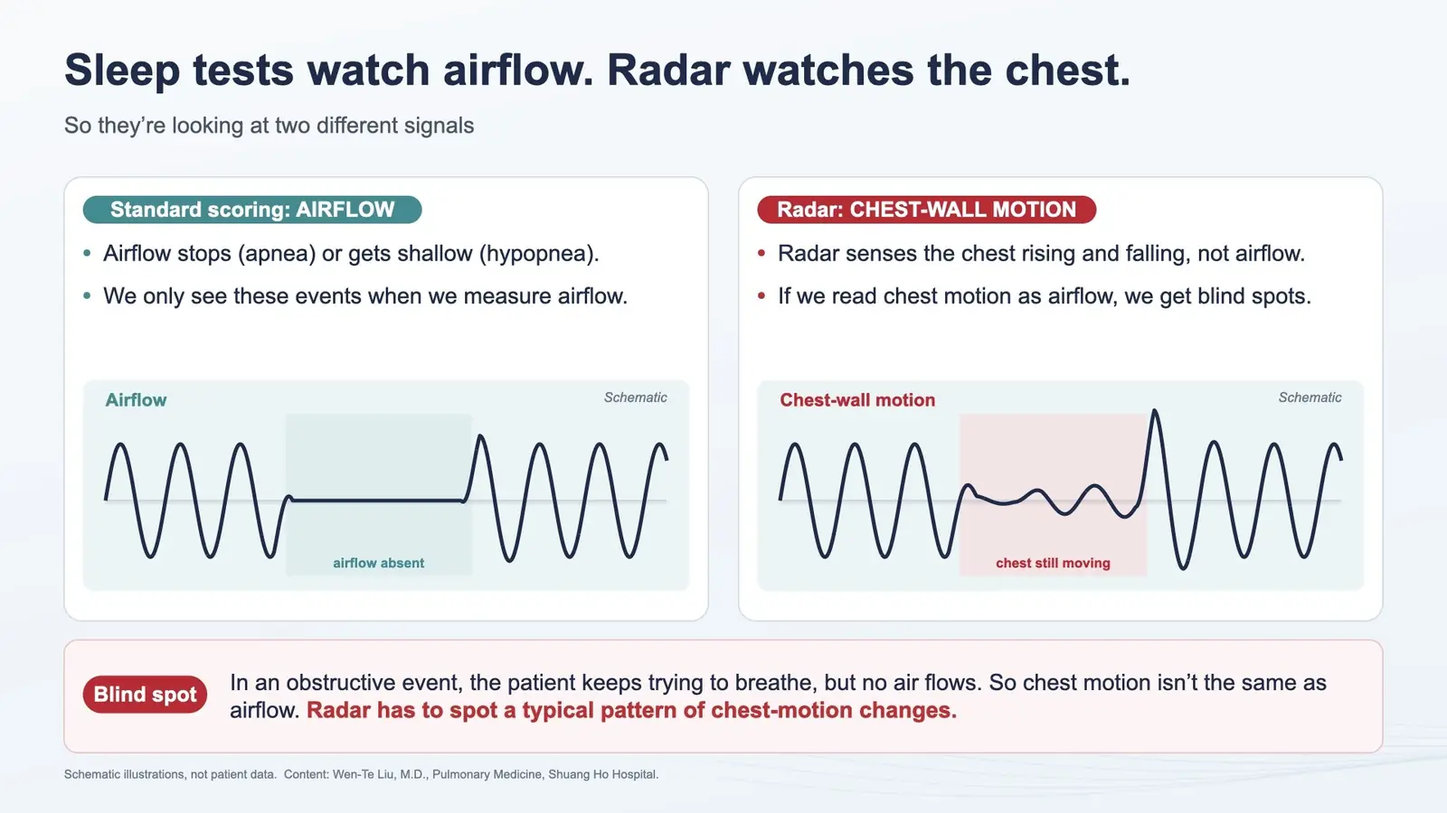
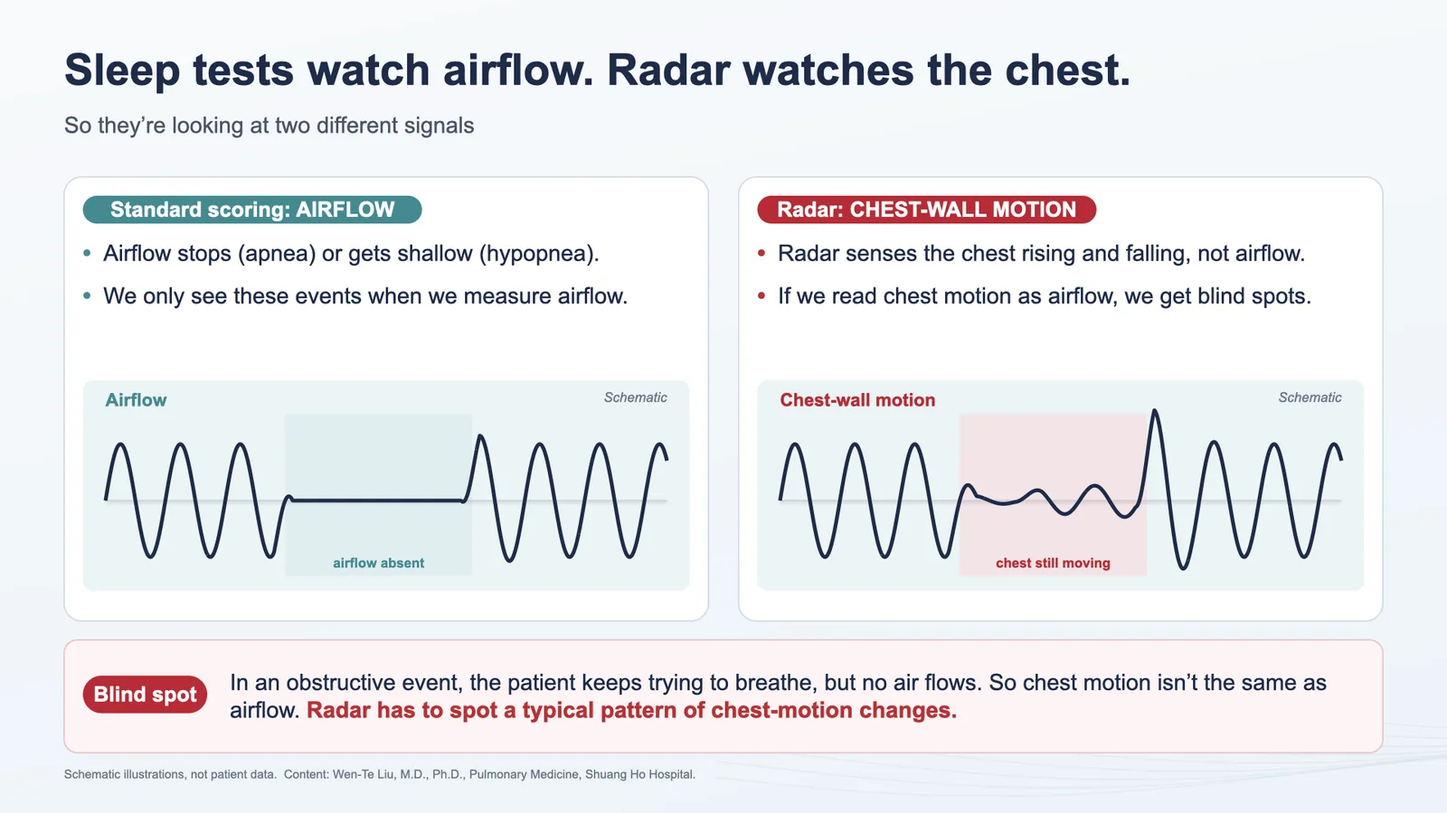
v13: byline M.D., Ph.D. on slide 1 (cover) and slide 10 footnote; SW gcbme-v15, s01/s10 ?v=16

Changed region(s): [[0.3125, 0.9333, 0.4688, 0.9644], [0.6875, 0.2489, 0.7188, 0.28], [0.5625, 0.2489, 0.5938, 0.28]]

diff --git a/data.js b/data.js
@@ -1,2 +1,2 @@
-window.SLIDES=[{"slide": 1, "title": "Non-wearable Devices in Sleep Medicine", "sentences": ["Good morning, everyone. Thank you for inviting me to the GCBME 2026 International Forum on Smart Healthcare.", "I'm Wen-Te Liu, from Pulmonary Medicine at Shuang Ho Hospital.", "Today I'll talk about non-wearable devices in sleep medicine: how we use contactless radar to check breathing during sleep."], "keywords": ["2026", "GCBME", "International", "Forum", "Smart", "Healthcare", "Pulmonary", "Medicine", "Shuang", "Hospital", "wearable", "contactless"], "seconds": 21.2, "words": 46, "image": "slides/s01.webp?v=15"}, {"slide": 2, "title": "Why is sleep testing so hard?", "sentences": ["Let me start with a simple question: why is sleep testing so hard?", "Look at the waiting room. If we suspect sleep-disordered breathing, we need objective data.", "But getting that data is a real hassle.", "Putting on the sensors often takes more than 60 minutes, and it makes patients anxious.", "And then patients have to sleep in a very unnatural setting."], "keywords": ["60", "disordered", "breathing", "objective", "patients", "unnatural"], "seconds": 28.2, "words": 61, "image": "slides/s02.webp?v=15"}, {"slide": 3, "title": "How do today's tests compare?", "sentences": ["Let's look at the options we have now. How do today's tests compare?", "PSG covers all sleep diseases, but it needs 20 or more wires, and patients wait 1 to 2 months.", "Home sleep testing uses 3 wires. An oximeter or an ECG patch can record for 7 to 14 days.", "But they are all uncomfortable, and the patch can cause allergy.", "So we need to move past wearable sensors, from Type I to Type IV, to monitoring with nothing to wear, night after night."], "keywords": ["20", "PSG", "ECG", "diseases", "oximeter", "uncomfortable", "wearable", "monitoring"], "seconds": 39.2, "words": 85, "image": "slides/s03.webp?v=15"}, {"slide": 4, "title": "Wearable sensors for sleep monitoring", "sentences": ["And it's not only clinical tests. There are also many wearable sensors for sleep monitoring.", "They track brain activity, heart activity, movement, respiration, and blood oxygen.", "But every one of them has to be worn on the body.", "So the question is: could non-wearables work?"], "keywords": ["wearable", "monitoring", "activity", "movement", "respiration", "wearables"], "seconds": 20.8, "words": 45, "image": "slides/s04.webp?v=15"}, {"slide": 5, "title": "Radar principle diagram", "sentences": ["Our answer is radar. Here is how it works.", "The radar sends a signal from Tx, and picks up the reflection at Rx.", "When the chest moves a little, the received signal changes, in its time of flight, or ToF, and its phase.", "From the changes, we rebuild the breathing signal, with no wires."], "keywords": ["reflection", "received", "breathing"], "seconds": 24.9, "words": 54, "image": "slides/s05.webp?v=15"}, {"slide": 6, "title": "Here's how it looks at the bedside", "sentences": ["And here's how it looks at the bedside.", "The radar can go on the wall above the bed, on an arm, or on a floor stand.", "Nothing touches the patient."], "keywords": [], "seconds": 13.8, "words": 30, "image": "slides/s06.webp?v=15"}, {"slide": 7, "title": "Our three published studies: sleep lab, home, and heart", "sentences": ["With this setup, our team has done three published studies: sleep lab, home, and heart.", "How it works: a 24-GHz continuous-wave radar, plus deep neural decision trees.", "In Study 1, in the sleep lab, we compared the radar side by side with PSG in 196 patients, and got a strong correlation, r = 0.91.", "In Study 2, we tested 80 patients at home, for 147 nights, with no professional needed to set it up.", "In Study 3, with 72 patients, when the radar picked up periodic breathing, it was linked to lower LVEF."], "keywords": ["24", "196", "0.91", "80", "147", "72", "GHz", "PSG", "LVEF", "Study", "published", "continuous-wave"], "seconds": 42.9, "words": 93, "image": "slides/s07.webp?v=15"}, {"slide": 8, "title": "Study 1: Testing it in the hospital", "sentences": ["Let's start with Study 1: testing it in the hospital.", "Our team published this study in 2024.", "We compared the radar with PSG in 196 patients.", "The setting was a tightly controlled lab, with no outside noise. So we get a clean baseline."], "keywords": ["2024", "196", "PSG", "Study", "hospital", "published", "compared", "patients", "controlled", "baseline"], "seconds": 19.8, "words": 43, "image": "slides/s08.webp?v=15"}, {"slide": 9, "title": "Radar turns tiny chest movements into breathing signals", "sentences": ["Before the results, how does the radar see the breathing? It turns tiny chest movements into breathing signals.", "In panel A, normal breathing gives a steady, regular wave.", "Panel B shows a respiratory event. During the apnea episode, the wave gets very small, and then breathing comes back."], "keywords": ["breathing", "movements", "respiratory"], "seconds": 22.2, "words": 48, "image": "slides/s09.webp?v=15"}, {"slide": 10, "title": "Sleep tests watch airflow. Radar watches the chest.", "sentences": ["But there's a catch. Sleep tests watch airflow, while radar watches the chest.", "In standard scoring, airflow stops, or gets shallow. We only see these events when we measure airflow.", "Radar senses the chest rising and falling, not airflow. So if we read chest motion as airflow, we get blind spots.", "In an obstructive event, the patient keeps trying to breathe, but no air flows.", "That's why the radar has to spot a typical pattern of chest-motion changes."], "keywords": ["Sleep", "Radar", "standard", "obstructive"], "seconds": 36.0, "words": 78, "image": "slides/s10.webp?v=15"}, {"slide": 11, "title": "How radar sees a sleep-breathing event", "sentences": ["Here's how radar sees a sleep-breathing event: in five steps of chest-wall motion.", "First, normal breathing: the chest moves regularly.", "Then apnea onset: the movement drops sharply, or stops.", "Then struggling effort: the airway is still closed, so the chest makes small moves.", "Then a recovery surge: the airway opens, with one big breath.", "And then it goes back to normal.", "This whole sequence is the event that radar can detect."], "keywords": ["breathing", "regularly", "movement", "struggling", "recovery", "sequence"], "seconds": 32.8, "words": 71, "image": "slides/s11.webp?v=15"}, {"slide": 12, "title": "Does the radar agree with the clinical gold standard?", "sentences": ["Now, the key question for Study 1: does the radar agree with the clinical gold standard?", "On the left is the full sleep study in the hospital, PSG. On the right, the contactless 24-GHz radar.", "We tested 196 patients, and the correlation was r = 0.91."], "keywords": ["24", "196", "0.91", "PSG", "GHz", "Study", "clinical", "standard", "hospital", "contactless", "patients", "correlation"], "seconds": 21.2, "words": 46, "image": "slides/s12.webp?v=15"}, {"slide": 13, "title": "Study 1: How accurate is it in the hospital?", "sentences": ["Beyond the correlation, Study 1 also asked: how accurate is it in the hospital?", "Here, bRDI is the BestShape Respiratory Disturbance Index, from the radar.", "The radar's bRDI and the AHI from PSG line up well, with r = 0.91, and p < 0.01.", "For moderate-to-severe OSA, the accuracy was 90.3%, with a cut-off of 19.2 events/h.", "For severe OSA, the accuracy was 92.4%, with a cut-off of 28.86 events/h.", "And for multi-class prediction, the average accuracy was 83.7%."], "keywords": ["0.91", "0.01", "90.3%", "19.2", "92.4%", "28.86", "83.7%", "bRDI", "AHI", "OSA", "Study", "Respiratory"], "seconds": 36.5, "words": 79, "image": "slides/s13.webp?v=15"}, {"slide": 14, "title": "From research to the ward: a zero-contact care platform", "sentences": ["Next, from research to the ward: our zero-contact care platform. We now use the radar every day for our inpatients.", "It monitors breathing nonstop, with no contact, and it reads heart rate and bed status from the same radar signal.", "If a patient is out of bed too long, or vital signs are abnormal, staff get alerts on the dashboard and LINE.", "It received the 2021 SNQ, and the 2022 NHQA, Distinctive Center for our Sleep Center."], "keywords": ["2021", "2022", "LINE", "SNQ", "NHQA", "Distinctive", "Center", "Sleep", "research", "platform", "inpatients", "breathing"], "seconds": 35.5, "words": 77, "image": "slides/s14.webp?v=15"}, {"slide": 15, "title": "Obstructive Sleep Apnea after COVID-19", "sentences": ["During the pandemic, we also looked at obstructive sleep apnea after COVID-19. This is an observational study.", "The table shows sleep test results in post-COVID-19 patients.", "Out of 257 patients, only 2 were normal, with an AHI below 5.", "Mild OSA was 11.28%, moderate was 29.18%, and severe was 58.75%."], "keywords": ["257", "11.28%", "29.18%", "58.75%", "COVID", "obstructive", "observational", "patients", "moderate"], "seconds": 23.1, "words": 50, "image": "slides/s15.webp?v=15"}, {"slide": 16, "title": "Radar picks up OSA in COVID-19 patients", "sentences": ["On our own wards, the radar also flags possible OSA in COVID-19 patients.", "From 2021/7 to 2022/7, our platform recorded 5,376 monitoring sessions.", "The lines show the percentage with RDI ≥15, ≥30, and ≥40.", "It runs from Delta in the summer of 2021, to Omicron in the summer of 2022.", "These are observational data. They show trends, not a diagnosis for each patient."], "keywords": ["2021", "2022", "5,376", "15", "30", "40", "OSA", "COVID", "RDI", "Delta", "Omicron", "possible"], "seconds": 29.1, "words": 63, "image": "slides/s16.webp?v=15"}, {"slide": 17, "title": "Does it work in real homes?", "sentences": ["Now, let's leave the hospital. Does it work in real homes?", "We studied 80 patients over 147 nights.", "We checked it against PSG in the hospital, and against HSAT at home. No technician was there at home.", "So we see it as a promising complement to HSAT."], "keywords": ["80", "147", "PSG", "HSAT", "hospital", "patients", "technician", "promising", "complement"], "seconds": 21.7, "words": 47, "image": "slides/s17.webp?v=15"}, {"slide": 18, "title": "Study 2: Taking it home", "sentences": ["This brings us to Study 2: taking it home.", "At home, nothing is controlled: different sleep positions, thick blankets, noise, and no technician.", "Again, 80 patients and 147 nights, with no staff on site.", "We compared the radar with home sleep apnea testing, or HSAT.", "Real homes are messy, so we need robust signal processing."], "keywords": ["80", "147", "HSAT", "Study", "controlled", "different", "positions", "blankets", "technician", "patients", "compared", "processing"], "seconds": 25.4, "words": 55, "image": "slides/s18.webp?v=15"}, {"slide": 19, "title": "Study 2: How well does it work at home?", "sentences": ["So how well does it work at home?", "We got a strong Spearman correlation, ρ = 0.87, with p < 0.01. So bRDI_TIB tracks HSAT AHI closely, even with no one supervising.", "For consistency, on average, the difference is −5.30 events/h.", "And 93.88% of nights, that's 138 of 147, fall within the ±1.96 SD limits of agreement."], "keywords": ["0.87", "0.01", "5.30", "93.88%", "138", "147", "1.96", "bRDI", "HSAT", "AHI", "SD", "correlation"], "seconds": 26.3, "words": 57, "image": "slides/s19.webp?v=15"}, {"slide": 20, "title": "Study 2: Grading severity at home", "sentences": ["Study 2 also looked at grading severity at home.", "For moderate-to-severe OSA, the accuracy was 83.67%, with a bRDI_TIB cut-off of 21.19 events/h.", "For severe OSA, it was 93.21%, with a cut-off of 28.14 events/h.", "For multi-class prediction, the average accuracy was 78.23%. That's better than HSAT rules alone, at 72.11%."], "keywords": ["83.67%", "21.19", "93.21%", "28.14", "78.23%", "72.11%", "OSA", "bRDI", "HSAT", "Study", "severity", "moderate-to-severe"], "seconds": 23.5, "words": 51, "image": "slides/s20.webp?v=15"}, {"slide": 21, "title": "Hospital vs. home: how do they compare?", "sentences": ["Let's put the two studies side by side. Hospital vs. home: how do they compare?", "In Study 1, in the hospital, the correlation with PSG was r = 0.91, and severe OSA accuracy was 92.4%.", "In Study 2, in real homes with nothing controlled, the Spearman correlation with HSAT was ρ = 0.87, and severe OSA accuracy was 93.21%.", "So the key insight is: for severe OSA, accuracy stays above 92%, in the hospital and at home."], "keywords": ["0.91", "92.4%", "0.87", "93.21%", "92%", "PSG", "OSA", "HSAT", "Hospital", "Study", "correlation", "accuracy"], "seconds": 35.5, "words": 77, "image": "slides/s21.webp?v=15"}, {"slide": 22, "title": "TFDA clearance: where we stand", "sentences": ["Next, TFDA clearance: where we stand. The device is TFDA cleared.", "bRDI ≥ 30 is used only as a screen for suspected severe obstructive sleep apnea.", "At a cut-off of 30, the sensitivity is 90.5%, and the specificity is also 90.5%.", "Please note: this device screens for suspected severe OSA. It does not diagnose OSA on its own."], "keywords": ["30", "90.5%", "TFDA", "bRDI", "OSA", "Please", "clearance", "suspected", "obstructive", "sensitivity", "specificity", "diagnose"], "seconds": 26.8, "words": 58, "image": "slides/s22.webp?v=15"}, {"slide": 23, "title": "So what does TFDA clearance mean in practice?", "sentences": ["So what does TFDA clearance mean in practice? Here is what the license covers.", "The main cut-off is bRDI ≥ 30. This flags suspected severe OSA.", "Sensitivity and specificity are both 90.5%.", "It tracks heart rate from 40–120 bpm.", "And for sleep stages, the consistency is 69%.", "But keep in mind: bRDI ≥ 30 is validated as a screen for suspected severe OSA. It doesn't replace a full diagnosis."], "keywords": ["30", "90.5%", "40", "120", "69%", "TFDA", "bRDI", "OSA", "Sensitivity", "clearance", "practice", "suspected"], "seconds": 31.8, "words": 69, "image": "slides/s23.webp?v=15"}, {"slide": 24, "title": "How do we install it?", "sentences": ["Next, a practical question: how do we install it?", "Option A is a wall-mounted bracket. It's best for fixed hospital or clinic beds.", "Option B is a floor stand. It's best for homes, and it's easy to move.", "Either way, the radar is set at 75–90 cm."], "keywords": ["75", "90", "Option", "hospital"], "seconds": 21.7, "words": 47, "image": "slides/s24.webp?v=15"}, {"slide": 25, "title": "How it all works, around the clock", "sentences": ["Once it's installed, how does it all work, around the clock?", "The radar sends data nonstop over Wi-Fi.", "The clinical dashboard shows each patient's status, movement, and abnormal vital signs in one place.", "And with automatic LINE app alerts, staff get an alert right away for abnormal values or bed exits."], "keywords": ["LINE", "clinical", "dashboard", "movement", "abnormal", "automatic"], "seconds": 23.5, "words": 51, "image": "slides/s25.webp?v=15"}, {"slide": 26, "title": "Study 3: Can breathing tell us about the heart?", "sentences": ["Now let's turn to the heart. Study 3 asks: can breathing tell us about the heart?", "This study had 72 patients, and it was published by our team in 2025.", "Here's what we found. When the radar picks up abnormal breathing, especially periodic breathing, or Cheyne-Stokes, it's linked to a lower LVEF.", "Just to be clear: this is an early-warning idea for heart failure, based on associations.", "It isn't validated yet for diagnosis or prediction."], "keywords": ["72", "2025", "LVEF", "Study", "Cheyne", "Stokes", "breathing", "published", "abnormal", "especially", "periodic", "associations"], "seconds": 34.6, "words": 75, "image": "slides/s26.webp?v=15"}, {"slide": 27, "title": "Why does a weaker heart change breathing during sleep?", "sentences": ["But why would a weaker heart change breathing during sleep?", "It comes from a feedback loop: the neural outflow, the plant gain, the circulation time, and the chemoreflex gain to CO2.", "Periodic breathing is associated with impaired cardiac function.", "Our radar does not measure CO2. It only sees the breathing pattern."], "keywords": ["CO2", "Periodic", "breathing", "circulation", "chemoreflex", "associated", "impaired", "function"], "seconds": 23.5, "words": 51, "image": "slides/s27.webp?v=15"}, {"slide": 28, "title": "Periodic-breathing features & cycle length", "sentences": ["And how do we measure periodic breathing? We use features like the cycle length and the hyperpnea length.", "When cycle length was measured by CPAP, it was 11x in acute heart failure, 8x in chronic heart failure, and 1x in a normal heart.", "And by LVEF, the cycle length goes from 49.1 seconds when LVEF is above 50, up to 85.7 seconds when LVEF is below 20."], "keywords": ["11", "49.1", "50", "85.7", "20", "CPAP", "LVEF", "features", "hyperpnea", "measured"], "seconds": 30.9, "words": 67, "image": "slides/s28.webp?v=15"}, {"slide": 29, "title": "IEEE JTEHM 2025 paper", "sentences": ["These ideas come together in our paper on evaluating cardiac impairment from abnormal respiratory patterns, using wireless radar and deep learning.", "In Table 1, we split patients by LVEF: above 50%, 47 patients, and 50% or below, 25 patients.", "The table also compares LVEF, LVEDD, and LVESD between the two groups."], "keywords": ["50%", "47", "25", "LVEF", "LVEDD", "LVESD", "Table", "evaluating", "impairment", "abnormal", "respiratory", "patterns"], "seconds": 23.5, "words": 51, "image": "slides/s29.webp?v=15"}, {"slide": 30, "title": "Putting numbers on the heart–breathing links", "sentences": ["From that paper, let's put numbers on the heart–breathing links.", "Keep in mind: these are clinical associations only.", "If RDI goes up by 1/h, LVEF goes down 0.22%, and LVESD goes up 0.14 mm.", "If the PB cycle is 1 s longer, NT-proBNP goes up 158.49 pg/mL, LVEF goes down 0.21%, LVEDD goes up 0.11 mm, and LVESD goes up 0.16 mm."], "keywords": ["0.22%", "0.14", "158.49", "0.21%", "0.11", "0.16", "RDI", "LVEF", "LVESD", "PB", "NT", "LVEDD"], "seconds": 28.6, "words": 62, "image": "slides/s30.webp?v=15"}, {"slide": 31, "title": "What does daily screening data look like?", "sentences": ["Now, back to daily practice. What does our daily screening data look like?", "The team gets a LINE message from the test site.", "For each bed, it lists the bRDI, sleep time, PB%, PB events, and the average PB cycle length that we just discussed.", "On the right is the full sleep report, in Chinese."], "keywords": ["LINE", "bRDI", "PB", "screening"], "seconds": 25.4, "words": 55, "image": "slides/s31.webp?v=15"}, {"slide": 32, "title": "Our ward work has won national awards", "sentences": ["This daily ward work has also won national awards for our zero-contact care platform.", "In 2025, we received the NHQA, the National Healthcare Quality Award, for our zero-contact monitoring platform for inpatients.", "We also received the SNQ, the Symbol of National Quality, for our Wholehearted integrated care model."], "keywords": ["2025", "NHQA", "SNQ", "National", "Healthcare", "Quality", "Award", "Symbol", "Wholehearted", "platform", "monitoring", "integrated"], "seconds": 22.2, "words": 48, "image": "slides/s32.webp?v=15"}, {"slide": 33, "title": "What to take home", "sentences": ["To wrap up, what should you take home?", "First, it's contactless. A 24-GHz radar can monitor breathing night after night, with nothing to wear.", "Second, it's consistent with standard tests: r = 0.91 in the hospital, and ρ = 0.87 at home.", "Third, it's a TFDA-cleared screen for suspected severe OSA, with 90.5% sensitivity.", "Fourth, we found associations between periodic breathing and cardiac impairment. So it may help us watch the heart, too.", "And finally, our work received national quality awards: SNQ and NHQA.", "Thank you very much. I'm happy to take your questions."], "keywords": ["24", "0.91", "0.87", "90.5%", "GHz", "TFDA", "OSA", "SNQ", "NHQA", "contactless", "breathing", "consistent"], "seconds": 43.4, "words": 94, "image": "slides/s33.webp?v=15"}];
+window.SLIDES=[{"slide": 1, "title": "Non-wearable Devices in Sleep Medicine", "sentences": ["Good morning, everyone. Thank you for inviting me to the GCBME 2026 International Forum on Smart Healthcare.", "I'm Wen-Te Liu, from Pulmonary Medicine at Shuang Ho Hospital.", "Today I'll talk about non-wearable devices in sleep medicine: how we use contactless radar to check breathing during sleep."], "keywords": ["2026", "GCBME", "International", "Forum", "Smart", "Healthcare", "Pulmonary", "Medicine", "Shuang", "Hospital", "wearable", "contactless"], "seconds": 21.2, "words": 46, "image": "slides/s01.webp?v=16"}, {"slide": 2, "title": "Why is sleep testing so hard?", "sentences": ["Let me start with a simple question: why is sleep testing so hard?", "Look at the waiting room. If we suspect sleep-disordered breathing, we need objective data.", "But getting that data is a real hassle.", "Putting on the sensors often takes more than 60 minutes, and it makes patients anxious.", "And then patients have to sleep in a very unnatural setting."], "keywords": ["60", "disordered", "breathing", "objective", "patients", "unnatural"], "seconds": 28.2, "words": 61, "image": "slides/s02.webp?v=15"}, {"slide": 3, "title": "How do today's tests compare?", "sentences": ["Let's look at the options we have now. How do today's tests compare?", "PSG covers all sleep diseases, but it needs 20 or more wires, and patients wait 1 to 2 months.", "Home sleep testing uses 3 wires. An oximeter or an ECG patch can record for 7 to 14 days.", "But they are all uncomfortable, and the patch can cause allergy.", "So we need to move past wearable sensors, from Type I to Type IV, to monitoring with nothing to wear, night after night."], "keywords": ["20", "PSG", "ECG", "diseases", "oximeter", "uncomfortable", "wearable", "monitoring"], "seconds": 39.2, "words": 85, "image": "slides/s03.webp?v=15"}, {"slide": 4, "title": "Wearable sensors for sleep monitoring", "sentences": ["And it's not only clinical tests. There are also many wearable sensors for sleep monitoring.", "They track brain activity, heart activity, movement, respiration, and blood oxygen.", "But every one of them has to be worn on the body.", "So the question is: could non-wearables work?"], "keywords": ["wearable", "monitoring", "activity", "movement", "respiration", "wearables"], "seconds": 20.8, "words": 45, "image": "slides/s04.webp?v=15"}, {"slide": 5, "title": "Radar principle diagram", "sentences": ["Our answer is radar. Here is how it works.", "The radar sends a signal from Tx, and picks up the reflection at Rx.", "When the chest moves a little, the received signal changes, in its time of flight, or ToF, and its phase.", "From the changes, we rebuild the breathing signal, with no wires."], "keywords": ["reflection", "received", "breathing"], "seconds": 24.9, "words": 54, "image": "slides/s05.webp?v=15"}, {"slide": 6, "title": "Here's how it looks at the bedside", "sentences": ["And here's how it looks at the bedside.", "The radar can go on the wall above the bed, on an arm, or on a floor stand.", "Nothing touches the patient."], "keywords": [], "seconds": 13.8, "words": 30, "image": "slides/s06.webp?v=15"}, {"slide": 7, "title": "Our three published studies: sleep lab, home, and heart", "sentences": ["With this setup, our team has done three published studies: sleep lab, home, and heart.", "How it works: a 24-GHz continuous-wave radar, plus deep neural decision trees.", "In Study 1, in the sleep lab, we compared the radar side by side with PSG in 196 patients, and got a strong correlation, r = 0.91.", "In Study 2, we tested 80 patients at home, for 147 nights, with no professional needed to set it up.", "In Study 3, with 72 patients, when the radar picked up periodic breathing, it was linked to lower LVEF."], "keywords": ["24", "196", "0.91", "80", "147", "72", "GHz", "PSG", "LVEF", "Study", "published", "continuous-wave"], "seconds": 42.9, "words": 93, "image": "slides/s07.webp?v=15"}, {"slide": 8, "title": "Study 1: Testing it in the hospital", "sentences": ["Let's start with Study 1: testing it in the hospital.", "Our team published this study in 2024.", "We compared the radar with PSG in 196 patients.", "The setting was a tightly controlled lab, with no outside noise. So we get a clean baseline."], "keywords": ["2024", "196", "PSG", "Study", "hospital", "published", "compared", "patients", "controlled", "baseline"], "seconds": 19.8, "words": 43, "image": "slides/s08.webp?v=15"}, {"slide": 9, "title": "Radar turns tiny chest movements into breathing signals", "sentences": ["Before the results, how does the radar see the breathing? It turns tiny chest movements into breathing signals.", "In panel A, normal breathing gives a steady, regular wave.", "Panel B shows a respiratory event. During the apnea episode, the wave gets very small, and then breathing comes back."], "keywords": ["breathing", "movements", "respiratory"], "seconds": 22.2, "words": 48, "image": "slides/s09.webp?v=15"}, {"slide": 10, "title": "Sleep tests watch airflow. Radar watches the chest.", "sentences": ["But there's a catch. Sleep tests watch airflow, while radar watches the chest.", "In standard scoring, airflow stops, or gets shallow. We only see these events when we measure airflow.", "Radar senses the chest rising and falling, not airflow. So if we read chest motion as airflow, we get blind spots.", "In an obstructive event, the patient keeps trying to breathe, but no air flows.", "That's why the radar has to spot a typical pattern of chest-motion changes."], "keywords": ["Sleep", "Radar", "standard", "obstructive"], "seconds": 36.0, "words": 78, "image": "slides/s10.webp?v=16"}, {"slide": 11, "title": "How radar sees a sleep-breathing event", "sentences": ["Here's how radar sees a sleep-breathing event: in five steps of chest-wall motion.", "First, normal breathing: the chest moves regularly.", "Then apnea onset: the movement drops sharply, or stops.", "Then struggling effort: the airway is still closed, so the chest makes small moves.", "Then a recovery surge: the airway opens, with one big breath.", "And then it goes back to normal.", "This whole sequence is the event that radar can detect."], "keywords": ["breathing", "regularly", "movement", "struggling", "recovery", "sequence"], "seconds": 32.8, "words": 71, "image": "slides/s11.webp?v=15"}, {"slide": 12, "title": "Does the radar agree with the clinical gold standard?", "sentences": ["Now, the key question for Study 1: does the radar agree with the clinical gold standard?", "On the left is the full sleep study in the hospital, PSG. On the right, the contactless 24-GHz radar.", "We tested 196 patients, and the correlation was r = 0.91."], "keywords": ["24", "196", "0.91", "PSG", "GHz", "Study", "clinical", "standard", "hospital", "contactless", "patients", "correlation"], "seconds": 21.2, "words": 46, "image": "slides/s12.webp?v=15"}, {"slide": 13, "title": "Study 1: How accurate is it in the hospital?", "sentences": ["Beyond the correlation, Study 1 also asked: how accurate is it in the hospital?", "Here, bRDI is the BestShape Respiratory Disturbance Index, from the radar.", "The radar's bRDI and the AHI from PSG line up well, with r = 0.91, and p < 0.01.", "For moderate-to-severe OSA, the accuracy was 90.3%, with a cut-off of 19.2 events/h.", "For severe OSA, the accuracy was 92.4%, with a cut-off of 28.86 events/h.", "And for multi-class prediction, the average accuracy was 83.7%."], "keywords": ["0.91", "0.01", "90.3%", "19.2", "92.4%", "28.86", "83.7%", "bRDI", "AHI", "OSA", "Study", "Respiratory"], "seconds": 36.5, "words": 79, "image": "slides/s13.webp?v=15"}, {"slide": 14, "title": "From research to the ward: a zero-contact care platform", "sentences": ["Next, from research to the ward: our zero-contact care platform. We now use the radar every day for our inpatients.", "It monitors breathing nonstop, with no contact, and it reads heart rate and bed status from the same radar signal.", "If a patient is out of bed too long, or vital signs are abnormal, staff get alerts on the dashboard and LINE.", "It received the 2021 SNQ, and the 2022 NHQA, Distinctive Center for our Sleep Center."], "keywords": ["2021", "2022", "LINE", "SNQ", "NHQA", "Distinctive", "Center", "Sleep", "research", "platform", "inpatients", "breathing"], "seconds": 35.5, "words": 77, "image": "slides/s14.webp?v=15"}, {"slide": 15, "title": "Obstructive Sleep Apnea after COVID-19", "sentences": ["During the pandemic, we also looked at obstructive sleep apnea after COVID-19. This is an observational study.", "The table shows sleep test results in post-COVID-19 patients.", "Out of 257 patients, only 2 were normal, with an AHI below 5.", "Mild OSA was 11.28%, moderate was 29.18%, and severe was 58.75%."], "keywords": ["257", "11.28%", "29.18%", "58.75%", "COVID", "obstructive", "observational", "patients", "moderate"], "seconds": 23.1, "words": 50, "image": "slides/s15.webp?v=15"}, {"slide": 16, "title": "Radar picks up OSA in COVID-19 patients", "sentences": ["On our own wards, the radar also flags possible OSA in COVID-19 patients.", "From 2021/7 to 2022/7, our platform recorded 5,376 monitoring sessions.", "The lines show the percentage with RDI ≥15, ≥30, and ≥40.", "It runs from Delta in the summer of 2021, to Omicron in the summer of 2022.", "These are observational data. They show trends, not a diagnosis for each patient."], "keywords": ["2021", "2022", "5,376", "15", "30", "40", "OSA", "COVID", "RDI", "Delta", "Omicron", "possible"], "seconds": 29.1, "words": 63, "image": "slides/s16.webp?v=15"}, {"slide": 17, "title": "Does it work in real homes?", "sentences": ["Now, let's leave the hospital. Does it work in real homes?", "We studied 80 patients over 147 nights.", "We checked it against PSG in the hospital, and against HSAT at home. No technician was there at home.", "So we see it as a promising complement to HSAT."], "keywords": ["80", "147", "PSG", "HSAT", "hospital", "patients", "technician", "promising", "complement"], "seconds": 21.7, "words": 47, "image": "slides/s17.webp?v=15"}, {"slide": 18, "title": "Study 2: Taking it home", "sentences": ["This brings us to Study 2: taking it home.", "At home, nothing is controlled: different sleep positions, thick blankets, noise, and no technician.", "Again, 80 patients and 147 nights, with no staff on site.", "We compared the radar with home sleep apnea testing, or HSAT.", "Real homes are messy, so we need robust signal processing."], "keywords": ["80", "147", "HSAT", "Study", "controlled", "different", "positions", "blankets", "technician", "patients", "compared", "processing"], "seconds": 25.4, "words": 55, "image": "slides/s18.webp?v=15"}, {"slide": 19, "title": "Study 2: How well does it work at home?", "sentences": ["So how well does it work at home?", "We got a strong Spearman correlation, ρ = 0.87, with p < 0.01. So bRDI_TIB tracks HSAT AHI closely, even with no one supervising.", "For consistency, on average, the difference is −5.30 events/h.", "And 93.88% of nights, that's 138 of 147, fall within the ±1.96 SD limits of agreement."], "keywords": ["0.87", "0.01", "5.30", "93.88%", "138", "147", "1.96", "bRDI", "HSAT", "AHI", "SD", "correlation"], "seconds": 26.3, "words": 57, "image": "slides/s19.webp?v=15"}, {"slide": 20, "title": "Study 2: Grading severity at home", "sentences": ["Study 2 also looked at grading severity at home.", "For moderate-to-severe OSA, the accuracy was 83.67%, with a bRDI_TIB cut-off of 21.19 events/h.", "For severe OSA, it was 93.21%, with a cut-off of 28.14 events/h.", "For multi-class prediction, the average accuracy was 78.23%. That's better than HSAT rules alone, at 72.11%."], "keywords": ["83.67%", "21.19", "93.21%", "28.14", "78.23%", "72.11%", "OSA", "bRDI", "HSAT", "Study", "severity", "moderate-to-severe"], "seconds": 23.5, "words": 51, "image": "slides/s20.webp?v=15"}, {"slide": 21, "title": "Hospital vs. home: how do they compare?", "sentences": ["Let's put the two studies side by side. Hospital vs. home: how do they compare?", "In Study 1, in the hospital, the correlation with PSG was r = 0.91, and severe OSA accuracy was 92.4%.", "In Study 2, in real homes with nothing controlled, the Spearman correlation with HSAT was ρ = 0.87, and severe OSA accuracy was 93.21%.", "So the key insight is: for severe OSA, accuracy stays above 92%, in the hospital and at home."], "keywords": ["0.91", "92.4%", "0.87", "93.21%", "92%", "PSG", "OSA", "HSAT", "Hospital", "Study", "correlation", "accuracy"], "seconds": 35.5, "words": 77, "image": "slides/s21.webp?v=15"}, {"slide": 22, "title": "TFDA clearance: where we stand", "sentences": ["Next, TFDA clearance: where we stand. The device is TFDA cleared.", "bRDI ≥ 30 is used only as a screen for suspected severe obstructive sleep apnea.", "At a cut-off of 30, the sensitivity is 90.5%, and the specificity is also 90.5%.", "Please note: this device screens for suspected severe OSA. It does not diagnose OSA on its own."], "keywords": ["30", "90.5%", "TFDA", "bRDI", "OSA", "Please", "clearance", "suspected", "obstructive", "sensitivity", "specificity", "diagnose"], "seconds": 26.8, "words": 58, "image": "slides/s22.webp?v=15"}, {"slide": 23, "title": "So what does TFDA clearance mean in practice?", "sentences": ["So what does TFDA clearance mean in practice? Here is what the license covers.", "The main cut-off is bRDI ≥ 30. This flags suspected severe OSA.", "Sensitivity and specificity are both 90.5%.", "It tracks heart rate from 40–120 bpm.", "And for sleep stages, the consistency is 69%.", "But keep in mind: bRDI ≥ 30 is validated as a screen for suspected severe OSA. It doesn't replace a full diagnosis."], "keywords": ["30", "90.5%", "40", "120", "69%", "TFDA", "bRDI", "OSA", "Sensitivity", "clearance", "practice", "suspected"], "seconds": 31.8, "words": 69, "image": "slides/s23.webp?v=15"}, {"slide": 24, "title": "How do we install it?", "sentences": ["Next, a practical question: how do we install it?", "Option A is a wall-mounted bracket. It's best for fixed hospital or clinic beds.", "Option B is a floor stand. It's best for homes, and it's easy to move.", "Either way, the radar is set at 75–90 cm."], "keywords": ["75", "90", "Option", "hospital"], "seconds": 21.7, "words": 47, "image": "slides/s24.webp?v=15"}, {"slide": 25, "title": "How it all works, around the clock", "sentences": ["Once it's installed, how does it all work, around the clock?", "The radar sends data nonstop over Wi-Fi.", "The clinical dashboard shows each patient's status, movement, and abnormal vital signs in one place.", "And with automatic LINE app alerts, staff get an alert right away for abnormal values or bed exits."], "keywords": ["LINE", "clinical", "dashboard", "movement", "abnormal", "automatic"], "seconds": 23.5, "words": 51, "image": "slides/s25.webp?v=15"}, {"slide": 26, "title": "Study 3: Can breathing tell us about the heart?", "sentences": ["Now let's turn to the heart. Study 3 asks: can breathing tell us about the heart?", "This study had 72 patients, and it was published by our team in 2025.", "Here's what we found. When the radar picks up abnormal breathing, especially periodic breathing, or Cheyne-Stokes, it's linked to a lower LVEF.", "Just to be clear: this is an early-warning idea for heart failure, based on associations.", "It isn't validated yet for diagnosis or prediction."], "keywords": ["72", "2025", "LVEF", "Study", "Cheyne", "Stokes", "breathing", "published", "abnormal", "especially", "periodic", "associations"], "seconds": 34.6, "words": 75, "image": "slides/s26.webp?v=15"}, {"slide": 27, "title": "Why does a weaker heart change breathing during sleep?", "sentences": ["But why would a weaker heart change breathing during sleep?", "It comes from a feedback loop: the neural outflow, the plant gain, the circulation time, and the chemoreflex gain to CO2.", "Periodic breathing is associated with impaired cardiac function.", "Our radar does not measure CO2. It only sees the breathing pattern."], "keywords": ["CO2", "Periodic", "breathing", "circulation", "chemoreflex", "associated", "impaired", "function"], "seconds": 23.5, "words": 51, "image": "slides/s27.webp?v=15"}, {"slide": 28, "title": "Periodic-breathing features & cycle length", "sentences": ["And how do we measure periodic breathing? We use features like the cycle length and the hyperpnea length.", "When cycle length was measured by CPAP, it was 11x in acute heart failure, 8x in chronic heart failure, and 1x in a normal heart.", "And by LVEF, the cycle length goes from 49.1 seconds when LVEF is above 50, up to 85.7 seconds when LVEF is below 20."], "keywords": ["11", "49.1", "50", "85.7", "20", "CPAP", "LVEF", "features", "hyperpnea", "measured"], "seconds": 30.9, "words": 67, "image": "slides/s28.webp?v=15"}, {"slide": 29, "title": "IEEE JTEHM 2025 paper", "sentences": ["These ideas come together in our paper on evaluating cardiac impairment from abnormal respiratory patterns, using wireless radar and deep learning.", "In Table 1, we split patients by LVEF: above 50%, 47 patients, and 50% or below, 25 patients.", "The table also compares LVEF, LVEDD, and LVESD between the two groups."], "keywords": ["50%", "47", "25", "LVEF", "LVEDD", "LVESD", "Table", "evaluating", "impairment", "abnormal", "respiratory", "patterns"], "seconds": 23.5, "words": 51, "image": "slides/s29.webp?v=15"}, {"slide": 30, "title": "Putting numbers on the heart–breathing links", "sentences": ["From that paper, let's put numbers on the heart–breathing links.", "Keep in mind: these are clinical associations only.", "If RDI goes up by 1/h, LVEF goes down 0.22%, and LVESD goes up 0.14 mm.", "If the PB cycle is 1 s longer, NT-proBNP goes up 158.49 pg/mL, LVEF goes down 0.21%, LVEDD goes up 0.11 mm, and LVESD goes up 0.16 mm."], "keywords": ["0.22%", "0.14", "158.49", "0.21%", "0.11", "0.16", "RDI", "LVEF", "LVESD", "PB", "NT", "LVEDD"], "seconds": 28.6, "words": 62, "image": "slides/s30.webp?v=15"}, {"slide": 31, "title": "What does daily screening data look like?", "sentences": ["Now, back to daily practice. What does our daily screening data look like?", "The team gets a LINE message from the test site.", "For each bed, it lists the bRDI, sleep time, PB%, PB events, and the average PB cycle length that we just discussed.", "On the right is the full sleep report, in Chinese."], "keywords": ["LINE", "bRDI", "PB", "screening"], "seconds": 25.4, "words": 55, "image": "slides/s31.webp?v=15"}, {"slide": 32, "title": "Our ward work has won national awards", "sentences": ["This daily ward work has also won national awards for our zero-contact care platform.", "In 2025, we received the NHQA, the National Healthcare Quality Award, for our zero-contact monitoring platform for inpatients.", "We also received the SNQ, the Symbol of National Quality, for our Wholehearted integrated care model."], "keywords": ["2025", "NHQA", "SNQ", "National", "Healthcare", "Quality", "Award", "Symbol", "Wholehearted", "platform", "monitoring", "integrated"], "seconds": 22.2, "words": 48, "image": "slides/s32.webp?v=15"}, {"slide": 33, "title": "What to take home", "sentences": ["To wrap up, what should you take home?", "First, it's contactless. A 24-GHz radar can monitor breathing night after night, with nothing to wear.", "Second, it's consistent with standard tests: r = 0.91 in the hospital, and ρ = 0.87 at home.", "Third, it's a TFDA-cleared screen for suspected severe OSA, with 90.5% sensitivity.", "Fourth, we found associations between periodic breathing and cardiac impairment. So it may help us watch the heart, too.", "And finally, our work received national quality awards: SNQ and NHQA.", "Thank you very much. I'm happy to take your questions."], "keywords": ["24", "0.91", "0.87", "90.5%", "GHz", "TFDA", "OSA", "SNQ", "NHQA", "contactless", "breathing", "consistent"], "seconds": 43.4, "words": 94, "image": "slides/s33.webp?v=15"}];
 window.QA=[{"q": "Does the radar measure oxygen saturation or CO2?", "a": "No. The radar senses chest-wall motion only. It derives breathing, heart rate and bed status; it does not measure SpO2 or CO2. Oximetry and CO2 values come from other devices."}, {"q": "How does the radar handle obstructive events, when the chest keeps moving?", "a": "It does not look for a flat line. It looks for the whole five-phase sequence: amplitude drops or stops, small struggling movements while the airway is closed, one large recovery surge, then return to normal."}, {"q": "What were the hospital results?", "a": "In 196 patients against PSG: correlation 0.91, 90.3% accuracy for moderate-to-severe OSA at a cut-off of 19.2 events per hour, 92.4% for severe OSA at 28.86, and 83.7% average accuracy for four-class prediction."}, {"q": "How did it perform at home?", "a": "In 80 patients over 147 nights against HSAT: Spearman ρ = 0.87; 83.67% accuracy for moderate-to-severe OSA and 93.21% for severe OSA; mean difference −5.30 events per hour, with 93.88% of nights within the ±1.96 SD limits of agreement."}, {"q": "Is the Bland–Altman band a confidence interval?", "a": "No. It shows limits of agreement, from −23.65 to +13.06 events per hour around a mean difference of −5.30. It describes agreement between individual nights, not uncertainty in the mean."}, {"q": "Can the radar replace polysomnography?", "a": "No. The TFDA clearance is for screening: a bRDI of 30 or more flags suspected severe OSA, with 90.5% sensitivity and 90.5% specificity. It is not a standalone diagnostic device, and PSG remains the reference standard."}, {"q": "Can the radar predict heart failure?", "a": "Not yet. In 72 patients, periodic breathing and cycle length were associated with lower LVEF and higher NT-proBNP. These are associations only, and the early-warning model is not a validated diagnostic or predictive tool."}, {"q": "What about blankets, sleep position or a bed partner?", "a": "The home study ran with real-world variables: different sleep positions, thick blankets, environmental noise and no technician, which is why robust signal processing is needed. The deck does not report bed-partner data, so I would not claim performance there."}, {"q": "How is it installed, and what does the care team see?", "a": "It uses a wall-mounted bracket or a floor stand at 75 to 90 cm. Data stream over Wi-Fi to a dashboard, and LINE notifications flag prolonged bed exit or abnormal values. Each morning the care team gets a summary of bRDI, sleep time and periodic breathing per bed."}, {"q": "How accurate is sleep staging?", "a": "The TFDA-labeled overall sleep-staging agreement is 69%. That is useful as context, but it is clearly below what we see for breathing events, so we present the radar mainly as a breathing screen."}];

diff --git a/sw.js b/sw.js
@@ -1,4 +1,4 @@
-const V='gcbme-v14';const FILES=["./", "index.html", "style.css", "app.js", "align.js", "data.js", "kp.js", "voice.js", "kpscore.js", "talk.js", "levels.json", "manifest.webmanifest", "icon-192.png", "slides/s01.webp?v=15", "slides/s02.webp?v=15", "slides/s03.webp?v=15", "slides/s04.webp?v=15", "slides/s05.webp?v=15", "slides/s06.webp?v=15", "slides/s07.webp?v=15", "slides/s08.webp?v=15", "slides/s09.webp?v=15", "slides/s10.webp?v=15", "slides/s11.webp?v=15", "slides/s12.webp?v=15", "slides/s13.webp?v=15", "slides/s14.webp?v=15", "slides/s15.webp?v=15", "slides/s16.webp?v=15", "slides/s17.webp?v=15", "slides/s18.webp?v=15", "slides/s19.webp?v=15", "slides/s20.webp?v=15", "slides/s21.webp?v=15", "slides/s22.webp?v=15", "slides/s23.webp?v=15", "slides/s24.webp?v=15", "slides/s25.webp?v=15", "slides/s26.webp?v=15", "slides/s27.webp?v=15", "slides/s28.webp?v=15", "slides/s29.webp?v=15", "slides/s30.webp?v=15", "slides/s31.webp?v=15", "slides/s32.webp?v=15", "slides/s33.webp?v=15"];
+const V='gcbme-v15';const FILES=["./", "index.html", "style.css", "app.js", "align.js", "data.js", "kp.js", "voice.js", "kpscore.js", "talk.js", "levels.json", "manifest.webmanifest", "icon-192.png", "slides/s01.webp?v=16", "slides/s02.webp?v=15", "slides/s03.webp?v=15", "slides/s04.webp?v=15", "slides/s05.webp?v=15", "slides/s06.webp?v=15", "slides/s07.webp?v=15", "slides/s08.webp?v=15", "slides/s09.webp?v=15", "slides/s10.webp?v=16", "slides/s11.webp?v=15", "slides/s12.webp?v=15", "slides/s13.webp?v=15", "slides/s14.webp?v=15", "slides/s15.webp?v=15", "slides/s16.webp?v=15", "slides/s17.webp?v=15", "slides/s18.webp?v=15", "slides/s19.webp?v=15", "slides/s20.webp?v=15", "slides/s21.webp?v=15", "slides/s22.webp?v=15", "slides/s23.webp?v=15", "slides/s24.webp?v=15", "slides/s25.webp?v=15", "slides/s26.webp?v=15", "slides/s27.webp?v=15", "slides/s28.webp?v=15", "slides/s29.webp?v=15", "slides/s30.webp?v=15", "slides/s31.webp?v=15", "slides/s32.webp?v=15", "slides/s33.webp?v=15"];
 self.addEventListener('install',e=>{e.waitUntil(caches.open(V).then(c=>c.addAll(FILES)).then(()=>self.skipWaiting()))});
 self.addEventListener('activate',e=>{e.waitUntil(caches.keys().then(ks=>Promise.all(ks.filter(k=>k!==V&&!k.startsWith('gcbme-audio')).map(k=>caches.delete(k)))).then(()=>self.clients.claim()))});
 // network-first for code (so updates show up), cache-first for images
